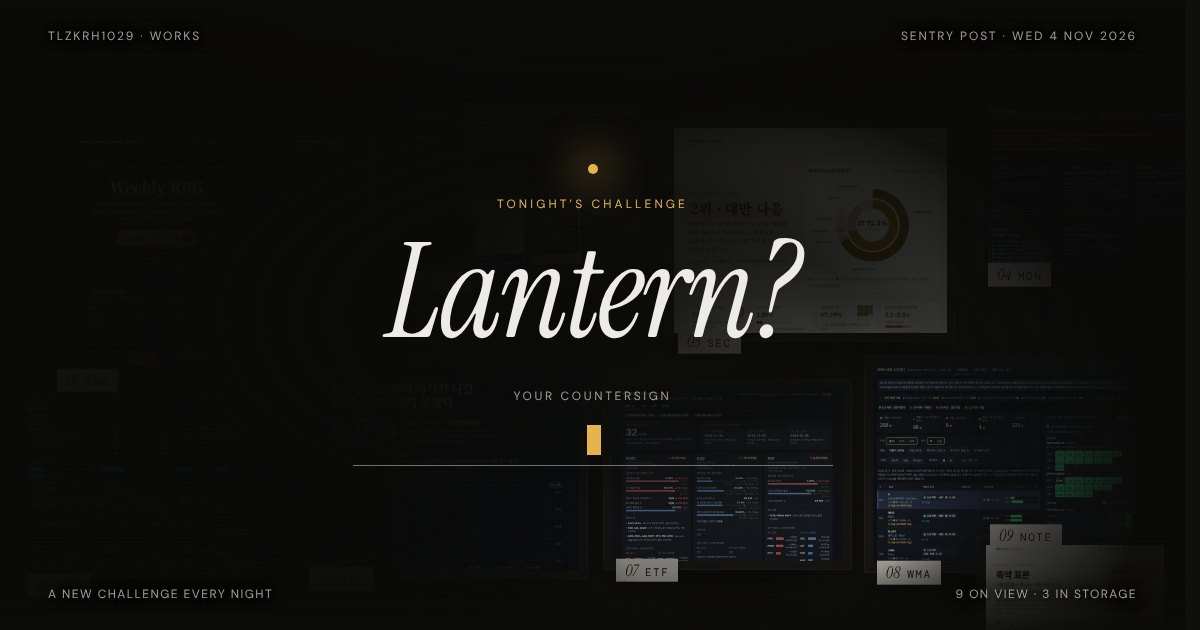
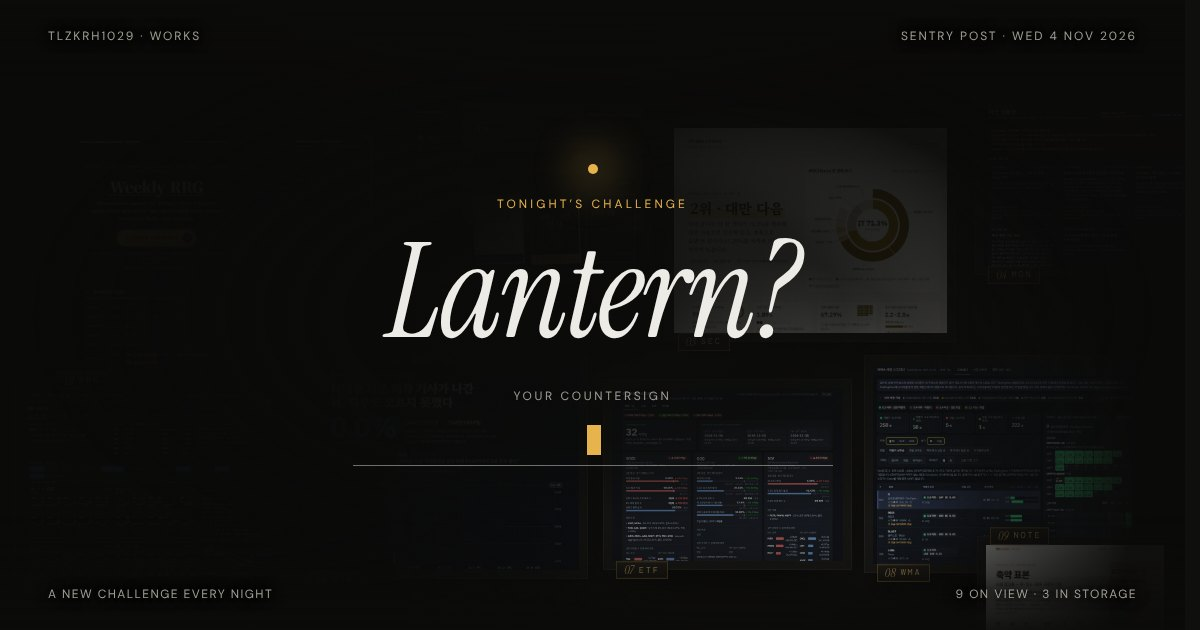
Replace the paper labels with small brass plates
Each frame now carries a small dark brass plate on its bottom-left
corner, where the paper label sat: the number and the word in gold,
about a quarter smaller than the label it replaces. Hovering a frame
brightens the plate's edge and adds the short title. In the door the
passing light catches the plates.

Claude-Session: https://claude.ai/code/session_012Q1bkThyLyRkssRe9xFwr9

diff --git a/assets/hub.css b/assets/hub.css
@@ -88,9 +88,9 @@ html { scrollbar-gutter: stable; }
   .p9 { --x: 76;   --y: 89.6; --w: 38; }
 }
 
-/* A paper label pinned across the bottom edge of each frame: number and word.
-   In the dark the passing light picks them out; in the hall, hovering a frame
-   adds its title. */
+/* A small brass plate on the bottom-left corner of each frame: number and
+   word in gold. In the dark the passing light catches it; in the hall,
+   hovering a frame adds its title. */
 .tag {
   position: absolute;
   z-index: 3;
@@ -98,22 +98,25 @@ html { scrollbar-gutter: stable; }
   bottom: 0;
   transform: translateY(50%);
   display: inline-flex;
-  align-items: baseline;
-  gap: 7px;
-  padding: 5px 9px 4px;
-  background: #ECE8DF;
-  color: #17140D;
+  align-items: center;
+  gap: 5px;
+  padding: 3px 7px 2px;
+  background: linear-gradient(180deg, #24201A 0%, #16140F 100%);
+  border: 1px solid rgba(230, 179, 76, 0.34);
+  color: #C9A866;
   font-family: var(--mono);
-  font-size: 11px;
-  letter-spacing: 0.14em;
-  line-height: 1.1;
+  font-size: 8.5px;
+  letter-spacing: 0.22em;
+  line-height: 1.2;
   white-space: nowrap;
-  box-shadow: 0 10px 18px -10px rgba(0, 0, 0, 0.75);
+  box-shadow: 0 6px 12px -8px rgba(0, 0, 0, 0.85), inset 0 1px 0 rgba(255, 236, 190, 0.07);
+  transition: border-color 0.3s ease, color 0.3s ease;
 }
 .p9 .tag { top: 0; bottom: auto; transform: translateY(-50%); }
-.tag .tno { font-family: var(--display); font-style: italic; font-size: 16px; letter-spacing: 0; line-height: 0.9; }
-.tag .ttitle { display: none; font-family: var(--serif); font-size: 13px; font-weight: 500; letter-spacing: 0; }
-.tag .icon { display: none; align-self: center; }
+.tag .tno { font-family: var(--display); font-style: italic; font-size: 12px; letter-spacing: 0; line-height: 0.9; }
+.tag .ttitle { display: none; font-family: var(--serif); font-size: 11px; font-weight: 500; letter-spacing: 0; color: var(--txt); }
+.tag .icon { display: none; width: 10px; height: 10px; color: var(--txt); }
+.hang:hover .tag, .hang:focus-visible .tag, .hang.is-found .tag { border-color: rgba(230, 179, 76, 0.8); color: var(--gold); }
 .hang:hover, .hang:focus-visible, .hang.is-found {
   z-index: 10;
   transform: translateY(-6px);

diff --git a/index.html b/index.html
@@ -10,13 +10,13 @@
 <meta property="og:title" content="Works · tlzkrh1029">
 <meta property="og:description" content="Nine web pages and artifacts made with Claude and ChatGPT, hung on one wall.">
 <meta property="og:url" content="https://tlzkrh1029.github.io/">
-<meta property="og:image" content="https://tlzkrh1029.github.io/assets/og.jpg?v=a4c2008f">
+<meta property="og:image" content="https://tlzkrh1029.github.io/assets/og.jpg?v=4fa6ce8c">
 <meta name="twitter:card" content="summary_large_image">
 <link rel="icon" href="assets/favicon.svg" type="image/svg+xml">
 <link rel="preconnect" href="https://fonts.googleapis.com">
 <link rel="preconnect" href="https://fonts.gstatic.com" crossorigin>
 <link rel="stylesheet" href="https://fonts.googleapis.com/css2?family=Instrument+Serif:ital@0;1&amp;family=Newsreader:wght@500;600&amp;family=DM+Sans:wght@400;500;600&amp;family=DM+Mono:wght@400;500&amp;display=swap">
-<link rel="stylesheet" href="assets/hub.css?v=e8a9273e">
+<link rel="stylesheet" href="assets/hub.css?v=5f181df7">
 <script>
 /* Decide before the first paint whether the door stands in front of the hall. */
 (function(){var h=location.hash.slice(1).toLowerCase(),skip=false;try{skip=localStorage.getItem("hub-door")==="skip";}catch(e){}if(h==="door"||(!h&&!skip))document.documentElement.classList.add("door-open");})();

diff --git a/tools/build.py b/tools/build.py
@@ -56,7 +56,7 @@ def meta(w):
 
 
 def hang(w, i):
-    """One frame on the wall, with its paper label (number, word, and the short title on hover)."""
+    """One frame on the wall, with its brass plate (number and word; the short title joins on hover)."""
     return ('<a class="hang p%d" id="hang-%s" data-id="%s" href="%s" target="_blank" rel="noopener" '
             'aria-label="%02d %s, opens in a new tab">'
             '<img src="%s" alt="" width="800" height="600" decoding="async"%s>'

diff --git a/README.md b/README.md
@@ -18,8 +18,8 @@ Claude와 ChatGPT로 만든 웹페이지와 아티팩트를 한곳에 모아 보
 - 전시실의 첫 화면은 작품이 걸린 벽 하나입니다. 대문은 이 벽 위에 어둠과 조명만 덮은 화면이므로, 대문에서 불을 켜면 작품이 조명이 비추던 자리에 그대로 걸려 있습니다.
 - 벽에는 `works.json`의 앞 9개 작품이 걸립니다. 자리는 `assets/hub.css`의 `.p1`부터 `.p9`까지가 정하며, 가로 화면용 값과 세로 화면용 값이 따로 있습니다. 각 자리는 액자 가운데의 위치(`--x`, `--y`, 벽 크기에 대한 %)와 액자 폭(`--w`, 벽 폭에 대한 %)으로 적습니다.
 - 가로가 세로의 1.95배보다 넓은 화면에서는 액자 크기가 화면 높이를 따릅니다. 그래서 아주 넓은 화면에서도 액자끼리 겹치는 정도가 더 커지지 않습니다.
-- 액자마다 번호와 암구어가 적힌 이름표가 붙어 있습니다. 대문에서는 조명이 지나갈 때만 이름표가 보입니다.
-- 전시실에서 액자에 마우스를 올리면 그 액자가 앞으로 나오고 이름표에 제목이 나타나며, 나머지 액자는 어두워집니다. 액자를 누르면 작품이 새 탭에서 열립니다.
+- 액자마다 왼쪽 아래 모서리에 번호와 암구어가 금빛 글자로 적힌 작은 놋쇠 명판이 붙어 있습니다. 대문에서는 조명이 지나갈 때만 명판이 보입니다.
+- 전시실에서 액자에 마우스를 올리면 그 액자가 앞으로 나오고 명판에 제목이 함께 나타나며, 나머지 액자는 어두워집니다. 액자를 누르면 작품이 새 탭에서 열립니다.
 - 벽 아래의 Wall texts에는 모든 작품의 번호, 제목, 플랫폼과 날짜, 설명, 링크가 있습니다.
 
 ## 대문과 암구어
